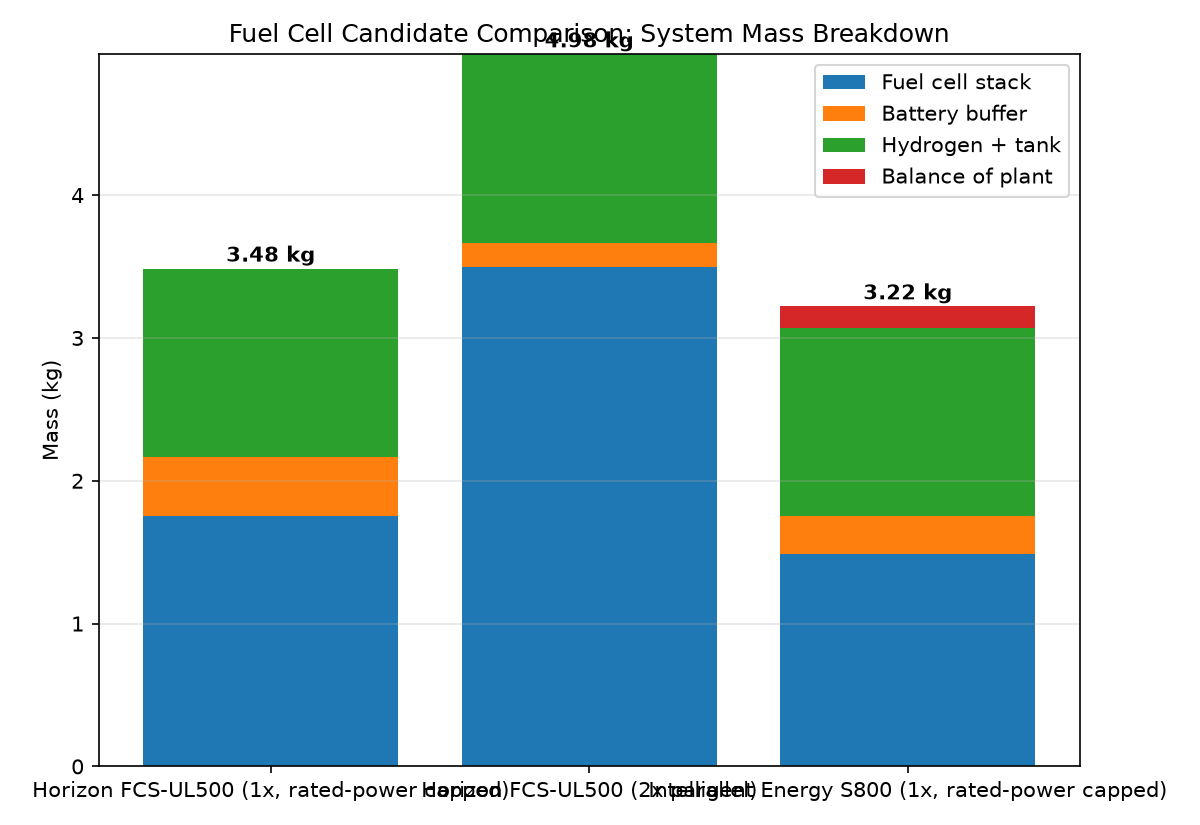
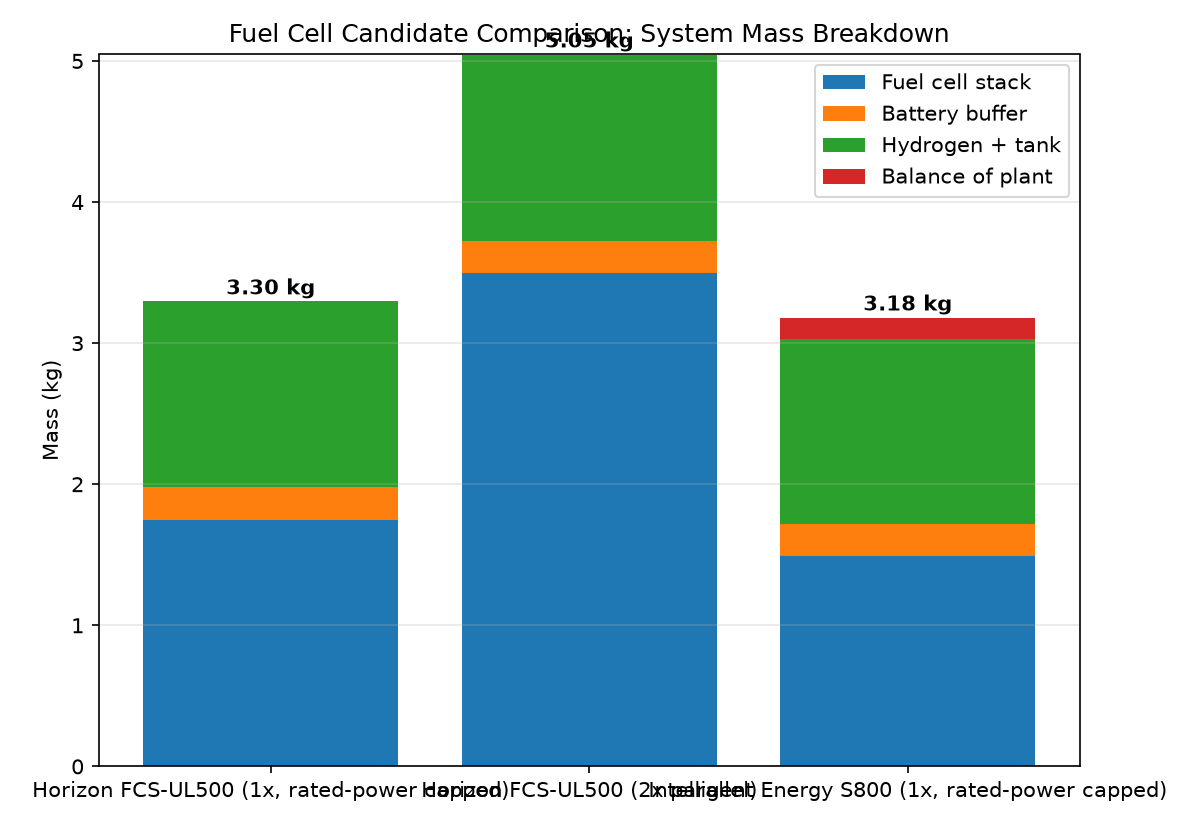
README update

diff --git a/README.md b/README.md
@@ -1,61 +1,132 @@
 # Fuel Cell System Sizing Tool
 
-A first-order sizing tool for hydrogen fuel cell propulsion systems. Given a mission's power and energy requirements, it sizes the fuel cell stack, battery buffer, and hydrogen tank — and shows where the mass trade-offs actually lie, including a direct comparison against a battery-only system.
+A Python tool for sizing hydrogen fuel cell propulsion systems. Starting from a general-purpose sizing calculator, this repo also includes a real applied case study: sizing a fuel cell retrofit for an Evolonic (Fraunhofer IISB) VTOL UAV, using real datasheet specifications for every major component.
 
 ## Why this matters
 
-Hydrogen fuel cells are often pitched as the answer to battery range limits in aviation and long-duration mobility applications, but *when* that's actually true depends on mission length, power profile, and component choices. This tool makes those trade-offs visible and quantifiable, rather than just asserting "hydrogen is better for long range."
+Hydrogen fuel cells are often pitched as the answer to battery range limits in aviation, but *when* that's actually true depends on mission length, power profile, and real component specs — not just theory. This tool makes those trade-offs visible and quantifiable, and the case study below shows the full process applied to a real retrofit project.
 
-## How it works
+---
+
+## Part 1: General Sizing Tool
+
+### How it works
 
 **1. Define a mission profile** (`src/mission_profile.py`)
-A mission is modeled as a sequence of phases (e.g. takeoff, climb, cruise, descent, landing), each with a duration and power demand. From this, the tool derives total energy required and peak power demand.
+A mission is modeled as a sequence of phases (e.g. takeoff, cruise, landing), each with a duration and power demand. From this, the tool derives total energy required and peak power demand.
 
 **2. Size the system** (`src/fuel_cell_sizing.py`)
-- **Fuel cell stack**: sized to cover a chosen fraction of peak power continuously (stacks respond too slowly for sudden spikes)
-- **Battery buffer**: covers the remaining power gap during short peak-demand phases like takeoff
-- **Hydrogen tank**: sized by total mission energy, accounting for realistic tank structure mass, not just the hydrogen itself
-- **Battery-only comparison**: sizes an equivalent pure-battery system for the same mission, for direct comparison
+| Component | How it's sized |
+|---|---|
+| Fuel cell stack | Covers a chosen fraction of peak power continuously, OR capped at a real product's rated power |
+| Battery buffer | Covers the remaining power gap during short peak-demand phases (e.g. takeoff) |
+| Hydrogen tank | Sized by total mission energy — either a generic gravimetric-fraction estimate, or real cylinder products |
+| Balance of plant | Power electronics, wiring, hoses — as a fraction of stack mass, or included in real product mass |
 
 **3. Explore trade-offs** (`src/plot_results.py`)
-Two sweeps are run automatically:
-- How total system mass splits between fuel cell stack and battery buffer, as the stack sizing choice changes
-- How total system mass scales with mission duration, for both the hydrogen system and a battery-only equivalent
-
-## Results
-
-For an example long-range UAV mission (3.3 hours total, 4kW peak power at takeoff):
-
-**Stack sizing trade-off**: a smaller fuel cell stack paired with a larger battery buffer produces the lightest overall system for this mission — because batteries have much higher specific power (W/kg) than fuel cell stacks, even though fuel cells win on energy density.
+Two general sweeps show how design choices affect total mass:
 
 ![Stack sizing trade-off](notebooks/stack_fraction_tradeoff.png)
-
-**Mission duration scaling**: this is the core insight. Fuel cell + battery mass stays flat regardless of mission duration (it's sized only by peak power), while hydrogen tank mass grows with mission length — but far more slowly than an equivalent battery-only system, whose mass is directly capped by battery specific energy (~200 Wh/kg vs. hydrogen's ~33,000 Wh/kg).
+*A smaller fuel cell stack paired with a larger battery buffer can produce a lighter overall system, since batteries have much higher specific power (W/kg) than fuel cell stacks.*
 
 ![Duration trade-off vs battery-only](notebooks/duration_tradeoff.png)
+*Fuel cell + battery mass stays flat regardless of mission duration, while a battery-only system's mass grows much faster — this is where hydrogen's energy density advantage shows up for longer missions.*
 
-For this mission profile, the hydrogen system's mass advantage over a battery-only system grows substantially as mission duration increases — the crossover point and growing gap are visible directly in the plot.
+---
 
-## What I'd improve with more time
-- Replace fixed specific power/energy assumptions with real component datasheets (specific PEM stacks, specific battery cells)
-- Add balance-of-plant mass (compressors, humidifiers, cooling) to the fuel cell system — currently only stack mass is modeled
-- Validate hydrogen tank gravimetric fraction assumption against real Type III/IV composite tank data
-- Extend mission profiles to support variable/continuous power curves instead of discrete phases
-- Connect this to the [Battery-SOC-estimator](https://github.com/pranav-shivaprakash/Battery-SOC-estimator) repo's SOH model, to account for battery degradation over the system's operational life
+## Part 2: Real Case Study — Evolonic VTOL UAV Retrofit
+
+This applies the tool to a real fuel cell retrofit project: adding a hydrogen fuel cell system to an existing battery-powered VTOL UAV, using measured flight data and real component datasheets throughout.
+
+### The mission (measured, not estimated)
+
+| Phase | Duration | Current draw | Power (at 22.2V) |
+|---|---|---|---|
+| Takeoff/hover | 1.25 min | 60 A | 1332 W |
+| Cruise | 59.5 min | 10 A | 222 W |
+| Landing | 1.0 min | 27.5 A | 611 W |
+| **Total** | **~61.75 min** | — | **Peak: 1332 W, Energy: 247 Wh** |
+
+Source: measured flight data from the existing battery-powered aircraft (62 min flight, 65.69 km, 249.4 Wh charging energy) — the model's 247 Wh result lines up closely with this, validating the mission model.
+
+### Aircraft mass budget
+
+- Airframe (with original battery): 9595 g
+- Original battery: 1890 g → **airframe alone: 7705 g**
+- Target maximum takeoff weight: 12,000 g (for a thrust-to-weight ratio of 1.7:1)
+- **Mass budget for the entire new fuel cell system: 4000 g (4 kg)**
+
+### Real components considered
+
+**Fuel cell candidates:**
+
+| Spec | Horizon FCS-UL500 | Intelligent Energy S800 |
+|---|---|---|
+| Rated power | 500 W | 800 W |
+| Measured/rated mass | 1750 g (stack+housing+blowers+valves: 1332g, controller+cables+LCD+dissipation plate: 346g, tubes/screws/fittings/H2 connectors: 72g) | 1490 g (combined mass with cabling) |
+| Specific power | 285.7 W/kg | 536.9 W/kg |
+| System efficiency | 40% (datasheet minimum) | 48.5% (back-calculated from 50g H2/hr at 800W) |
+| Output voltage range | 22.5–44.1 V | 25–50 V |
+
+**Hydrogen cylinder candidates (X-Fiber):**
+
+| Spec | X-Fiber S2 | X-Fiber S3 |
+|---|---|---|
+| Volume | 2 L | 3 L |
+| Empty mass | 1.3 kg | 1.6 kg |
+| Max pressure | 300 bar | 300 bar |
+| H2 capacity (at 300 bar, ~15°C, real-gas density ≈20.7 kg/m³) | 41.4 g | 62.1 g |
+| Real gravimetric fraction (H2 mass ÷ total filled mass) | 3.1% | 3.7% |
+
+**Battery buffer:**
+
+| Spec | Ovonic 150C Racing Series |
+|---|---|
+| Configuration | 6S1P, 1400 mAh, 22.2V nominal |
+| Discharge rate | 150C continuous (210 A / 4662 W max continuous) |
+| Mass | 227 g |
+| Real specific energy | ~137 Wh/kg |
+| Connector | XT60 |
+
+### Results: three configurations compared
+
+![Fuel cell comparison](notebooks/fuel_cell_comparison.png)
+
+| Configuration | Stack mass | Battery mass | Tank mass | BoP mass | **Total mass** | vs. 4 kg budget |
+|---|---|---|---|---|---|---|
+| 1× Horizon UL500 (500W cap, bigger battery buffer) | 1.750 kg | 0.227 kg | 1.319 kg | 0.000 kg | **3.296 kg** | Within, 0.704 kg margin |
+| 2× Horizon UL500 in parallel (1000W combined) | 3.500 kg | 0.227 kg | 1.319 kg | 0.000 kg | **5.046 kg** | Over by 1.046 kg |
+| 1× Intelligent Energy S800 (800W cap) | 1.490 kg | 0.227 kg | 1.315 kg | 0.149 kg | **3.181 kg** | Within, 0.819 kg margin |
+
+**Key findings:**
+- Both single-unit configurations fit comfortably within the 4 kg budget. Doubling up the Horizon UL500 to cover more peak power outright is the *heaviest* option — the extra stack mass costs more than the battery buffer it saves.
+- Hydrogen tank mass is dominated by the cylinder's own structural weight, not the fuel: the mission only needs 15–19 g of H2, but the smallest available cylinder (X-Fiber S2) weighs 1.3 kg empty. This system is **tank-mass-dominated**, not fuel-mass-dominated, at this mission's energy scale.
+- The single Ovonic 227 g battery covers the buffer requirement in every configuration with wide margin — even the most demanding case (832 W) uses only ~18% of its rated continuous power capability.
+
+### Assumptions and what to validate further
+- Hydrogen density at 300 bar (20.7 kg/m³) is a standard literature reference value — confirm against the exact cylinder manufacturer's fill charts if available.
+- Balance-of-plant mass for the Horizon UL500 configuration is assumed to be fully captured in its measured 1750 g (including tubes/fittings) — worth double-checking once wiring/mounting hardware for the specific airframe integration is finalized.
+- The battery buffer's 120-second sustain duration is a first-order estimate matching the combined takeoff+landing time; refine against the exact overlap between fuel cell response time and peak demand once real component response curves are available.
 
 ## Setup
 
 ```bash
-python -m venv venv
-venv\Scripts\Activate.ps1      # Windows PowerShell
+python3 -m venv venv
+source venv/bin/activate      # Linux/Mac
+# venv\Scripts\Activate.ps1   # Windows PowerShell
 pip install -r requirements.txt
 ```
 
-Run the full pipeline:
+Run the general sizing pipeline:
 ```bash
-python src/mission_profile.py
-python src/fuel_cell_sizing.py
-python src/plot_results.py
+python3 src/mission_profile.py
+python3 src/fuel_cell_sizing.py
+python3 src/plot_results.py
+```
+
+Run the real case study comparison:
+```bash
+python3 src/compare_fuel_cells.py
 ```
 
 ## Project structure
@@ -64,11 +135,16 @@ fuel-cell-sizing-tool/
 ├── data/
 │   └── mission_profiles.csv
 ├── src/
-│   ├── mission_profile.py
-│   ├── fuel_cell_sizing.py
-│   └── plot_results.py
+│   ├── mission_profile.py         # Mission power/energy profile
+│   ├── fuel_cell_sizing.py        # Core sizing calculations
+│   ├── plot_results.py            # General trade-off analysis & plots
+│   ├── fuel_cell_profiles.py      # Real fuel cell datasheet specs (Horizon, IE)
+│   ├── cylinder_profiles.py       # Real H2 cylinder specs (X-Fiber)
+│   ├── battery_profiles.py        # Real battery specs (Ovonic)
+│   └── compare_fuel_cells.py      # Real case study: 3-way comparison
 ├── notebooks/
 │   ├── stack_fraction_tradeoff.png
-│   └── duration_tradeoff.png
+│   ├── duration_tradeoff.png
+│   └── fuel_cell_comparison.png
 └── requirements.txt
 ```
